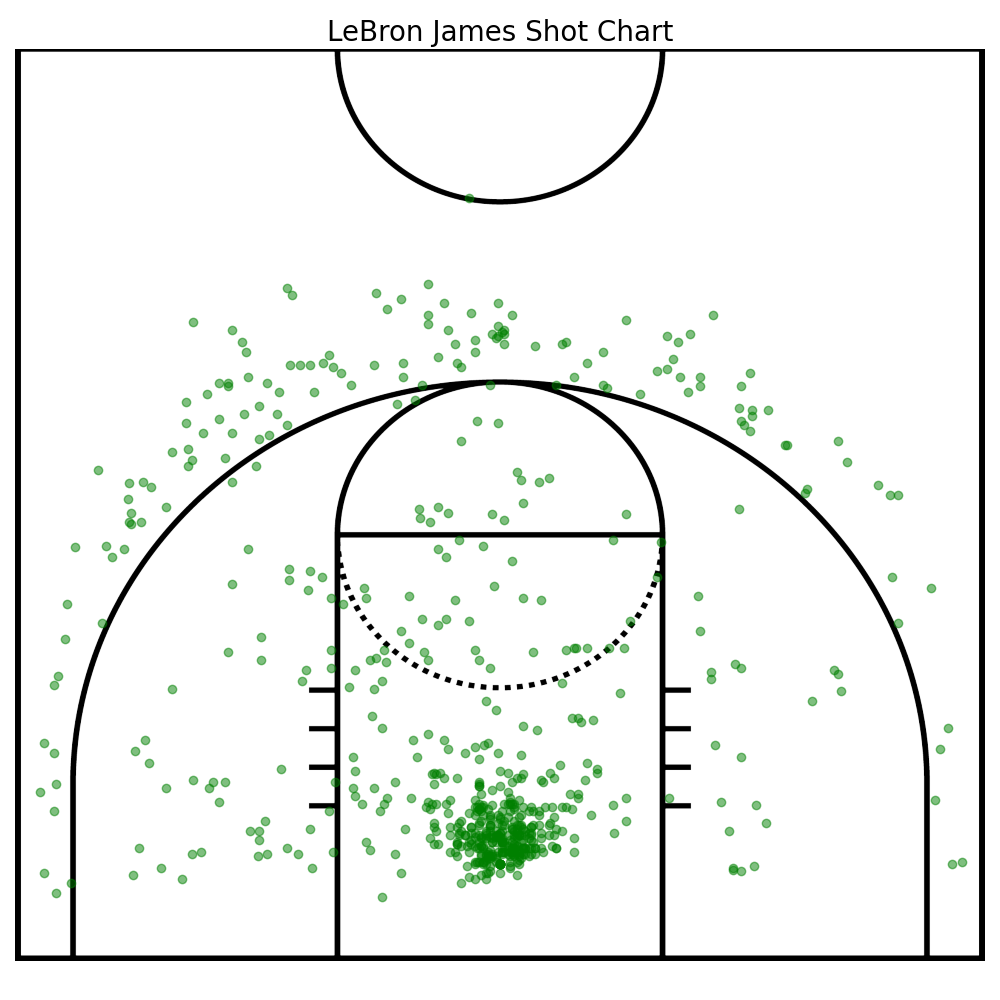
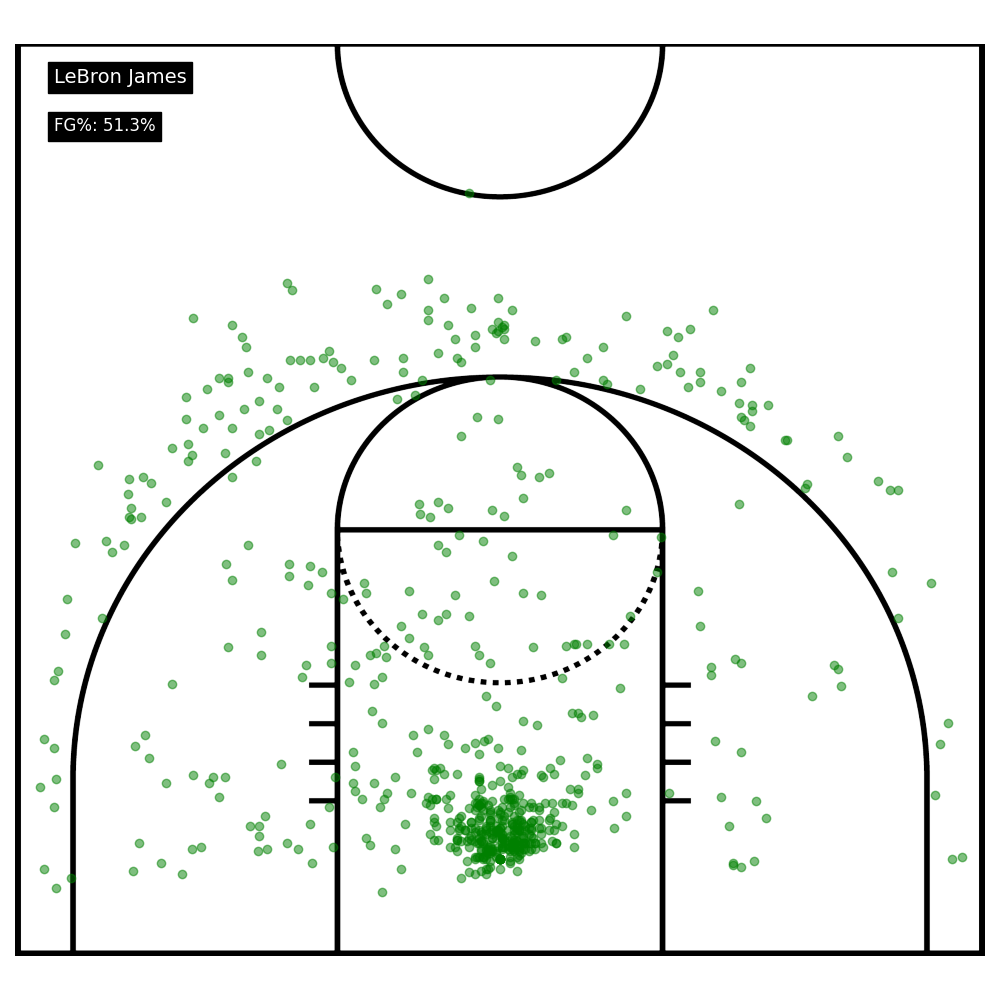
update the shot chart adding the field goal percentage

diff --git a/backend/api/shot_chart.py b/backend/api/shot_chart.py
@@ -6,7 +6,6 @@ import matplotlib
 matplotlib.use("Agg")  # Use non-GUI backend
 import matplotlib.image as mpimg
 
-
 def get_player_id(firstname, lastname):
     player_index = playerindex.PlayerIndex().get_normalized_dict()['PlayerIndex']
     for player in player_index:
@@ -17,35 +16,45 @@ def get_team_id(player_id):
     player_info = commonplayerinfo.CommonPlayerInfo(player_id=player_id).get_normalized_dict()['CommonPlayerInfo'][0]
     return player_info['TEAM_ID']
 
-def get_made_shots(player_id, team_id):
-    shot_details = shotchartdetail.ShotChartDetail(team_id=team_id, player_id=player_id).get_normalized_dict()['Shot_Chart_Detail']
-    # Filter only made shots
-    made_shots_x = [shot['LOC_X'] for shot in shot_details if shot['SHOT_MADE_FLAG'] == 1]
-    made_shots_y = [shot['LOC_Y'] for shot in shot_details if shot['SHOT_MADE_FLAG'] == 1]
-    return made_shots_x, made_shots_y
+def get_all_shots(player_id, team_id):
+    response = shotchartdetail.ShotChartDetail(
+        team_id=team_id,
+        player_id=player_id,
+        season_type_all_star='Regular Season',
+        context_measure_simple='FGA'
+    )
+    shots = response.get_normalized_dict()['Shot_Chart_Detail']
+    print(f"Fetched total shots: {len(shots)}")
+    made = [s for s in shots if s['SHOT_MADE_FLAG'] == 1]
+    print(f"Made shots: {len(made)}")
+    return shots
 
-def shot_chart(x, y, firstname, lastname):
+def shot_chart(x, y, all_shots, firstname, lastname):
     filename = f"static/{firstname.lower()}_{lastname.lower()}_shot_chart.png"
-    full_name = f"{firstname} {lastname}"
-    
     court_img = mpimg.imread("court.png")
+
     plt.figure(figsize=(10, 10))
     plt.xlim(-250, 250)
     plt.ylim(-50, 420)
     plt.imshow(court_img, extent=[-250, 250, -50, 420], zorder=0)
     plt.scatter(x, y, c='green', alpha=0.5, label='Made Shots')
-    plt.title(f"{full_name} Shot Chart", fontsize=20)
+
+    # FG%
+    fg_percentage = round((len(x) / len(all_shots)) * 100, 1) if all_shots else 0
+
+    # Annotations
+    plt.text(-230, 400, f'{firstname} {lastname}', fontsize=14, color='white', backgroundcolor='black')
+    plt.text(-230, 375, f'FG%: {fg_percentage}%', fontsize=12, color='white', backgroundcolor='black')
+
     plt.axis('off')
     plt.tight_layout()
     plt.savefig(filename)
     plt.close()
-
     return filename
 
 def get_players():
     player_index = playerindex.PlayerIndex().get_normalized_dict()['PlayerIndex']
     players = [{"id": player['PERSON_ID'], "firstname": player['PLAYER_FIRST_NAME'], "lastname": player['PLAYER_LAST_NAME']} for player in player_index]
     return players
-
 
 

diff --git a/backend/main.py b/backend/main.py
@@ -1,7 +1,7 @@
 from fastapi import FastAPI, HTTPException, Query
 from fastapi.responses import FileResponse
 from fastapi.middleware.cors import CORSMiddleware
-from api.shot_chart import get_player_id, get_team_id, get_made_shots, shot_chart, get_players
+from api.shot_chart import get_player_id, get_team_id, shot_chart, get_players, get_all_shots
 
 app = FastAPI()
 
@@ -24,8 +24,12 @@ def get_player(firstname: str = Query(...), lastname: str = Query(...)):
     if not player_id:
         raise HTTPException(status_code=404, detail="Player not found")
     team_id = get_team_id(player_id)
-    x, y = get_made_shots(player_id, team_id)
-    chart_path = shot_chart(x, y, firstname, lastname)
+    all_shots = get_all_shots(player_id, team_id)
+    made_x = [shot['LOC_X'] for shot in all_shots if shot['SHOT_MADE_FLAG'] == 1]
+    made_y = [shot['LOC_Y'] for shot in all_shots if shot['SHOT_MADE_FLAG'] == 1]
+    print(len(made_x), len(all_shots))
+
+    chart_path = shot_chart(made_x, made_y, all_shots, firstname, lastname)
     return FileResponse(chart_path, media_type="image/png")
 
 @app.get("/players")
